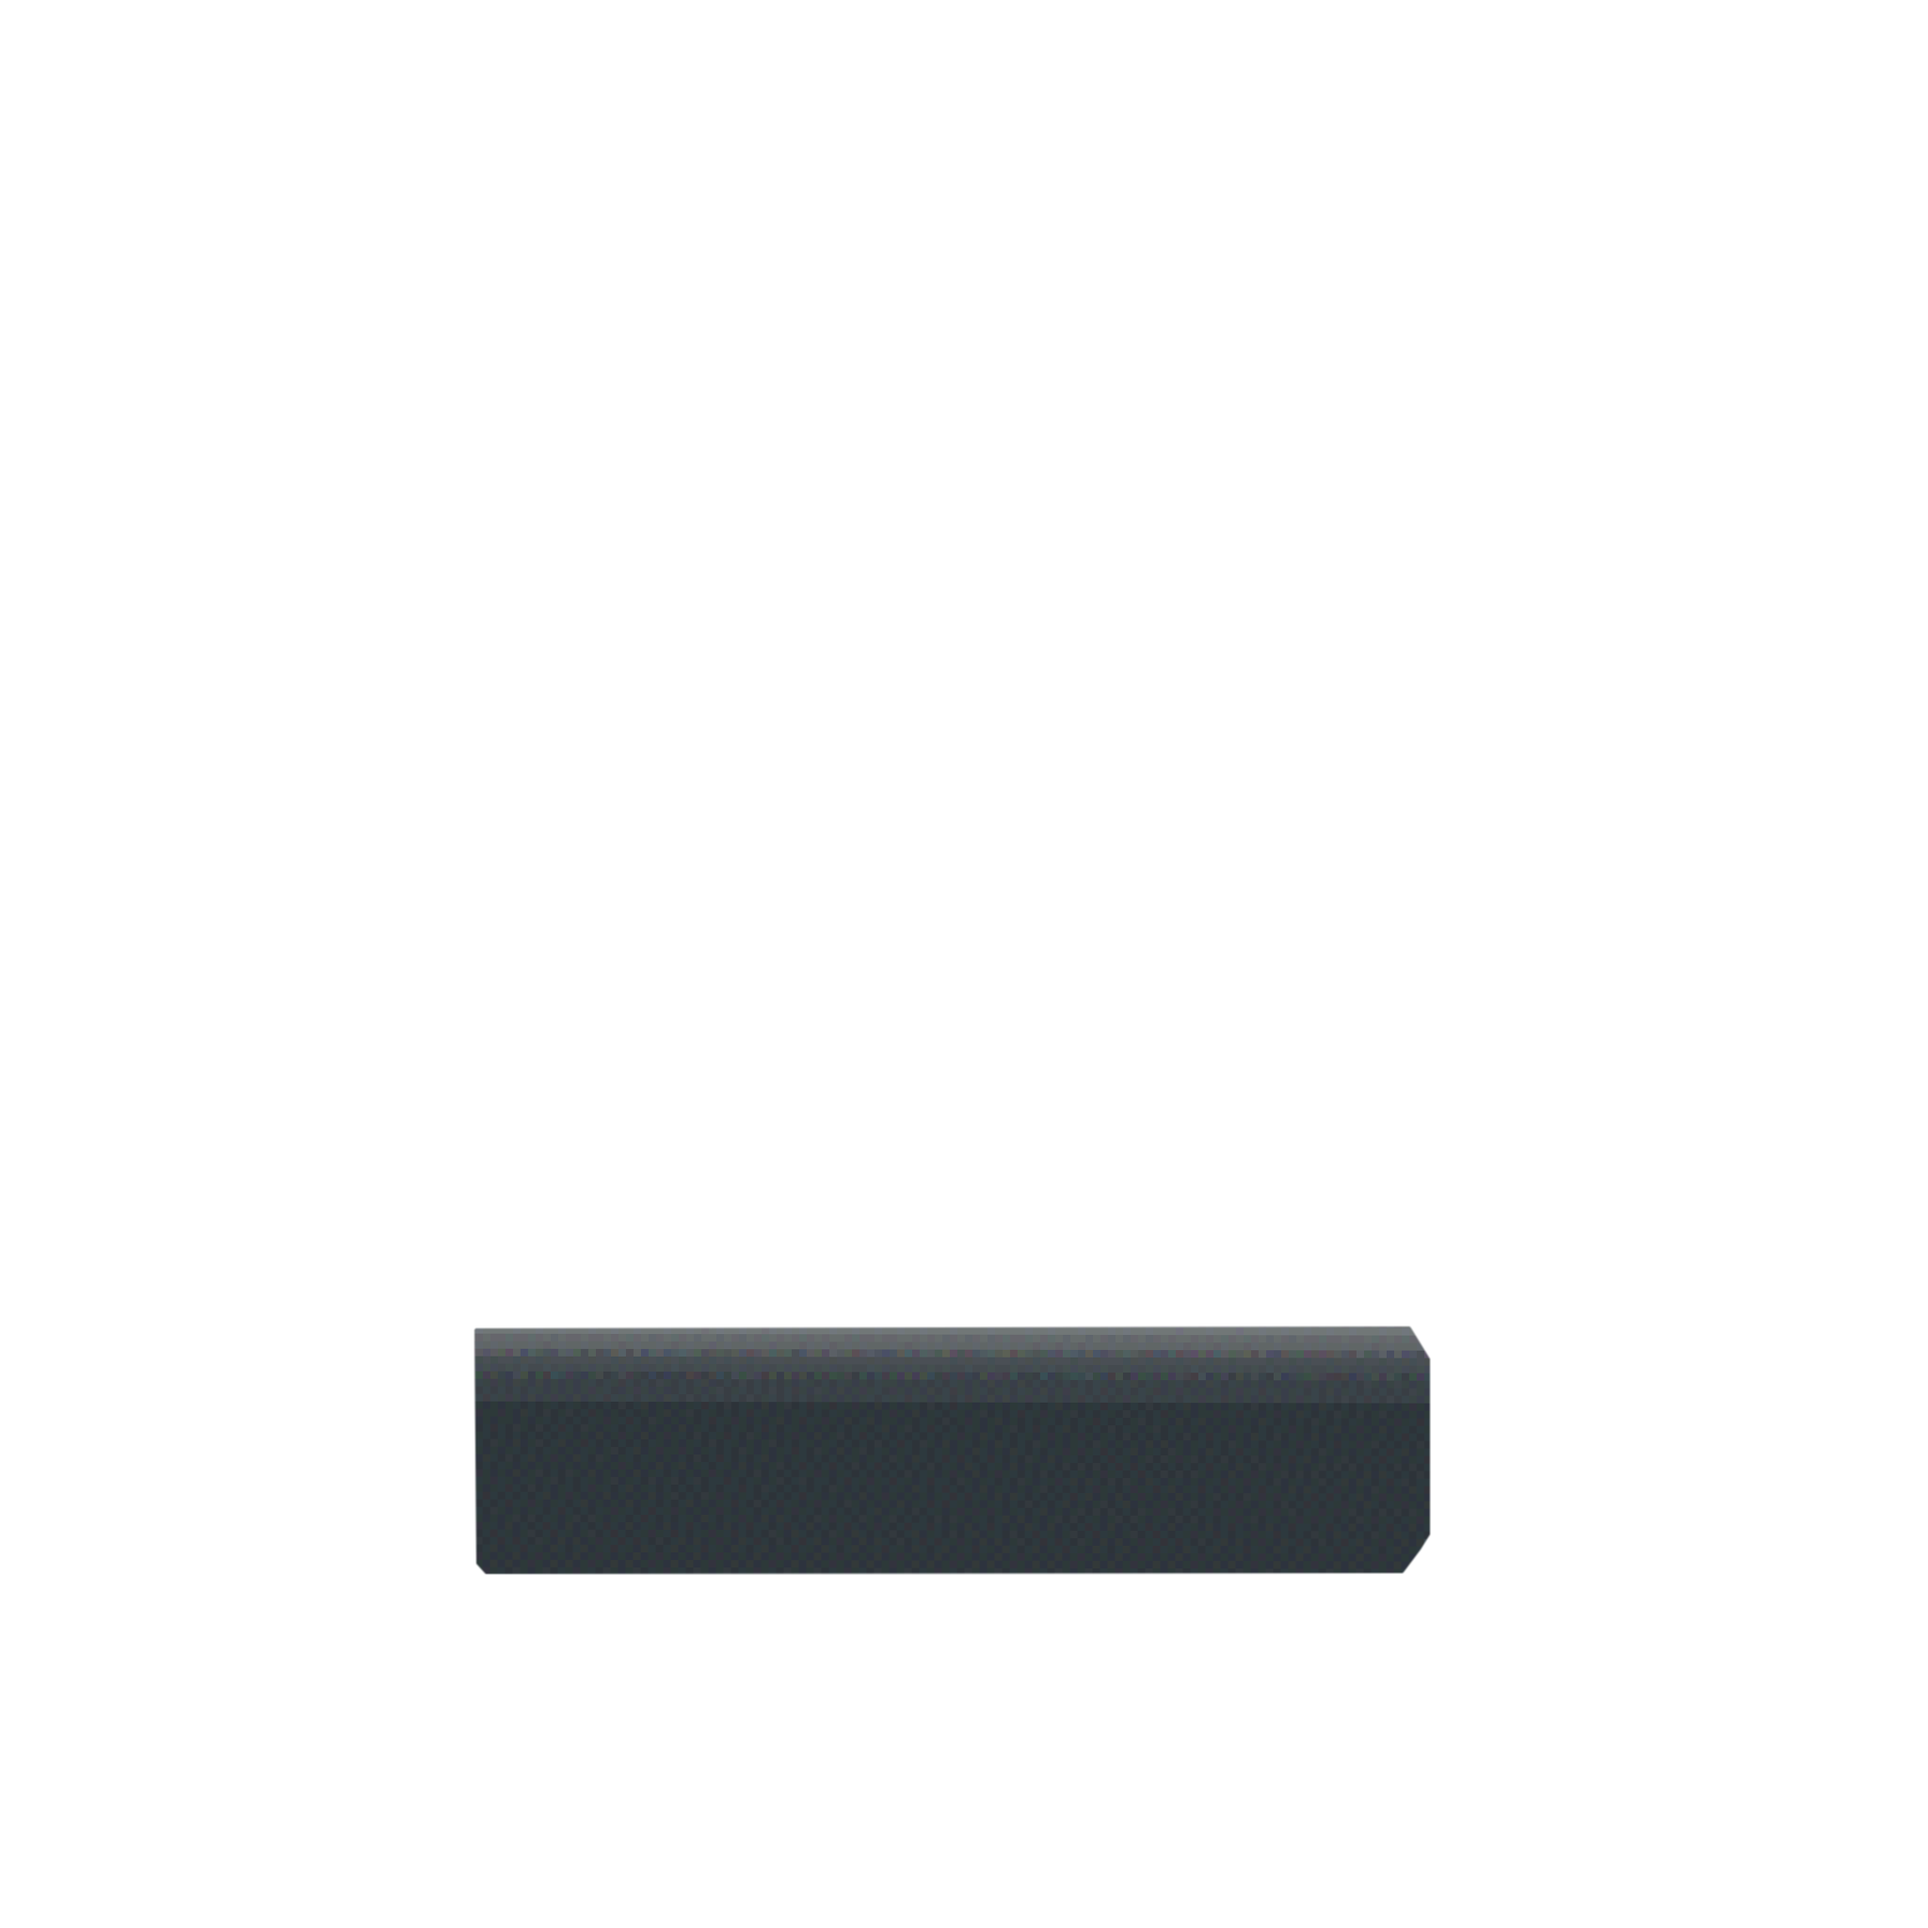
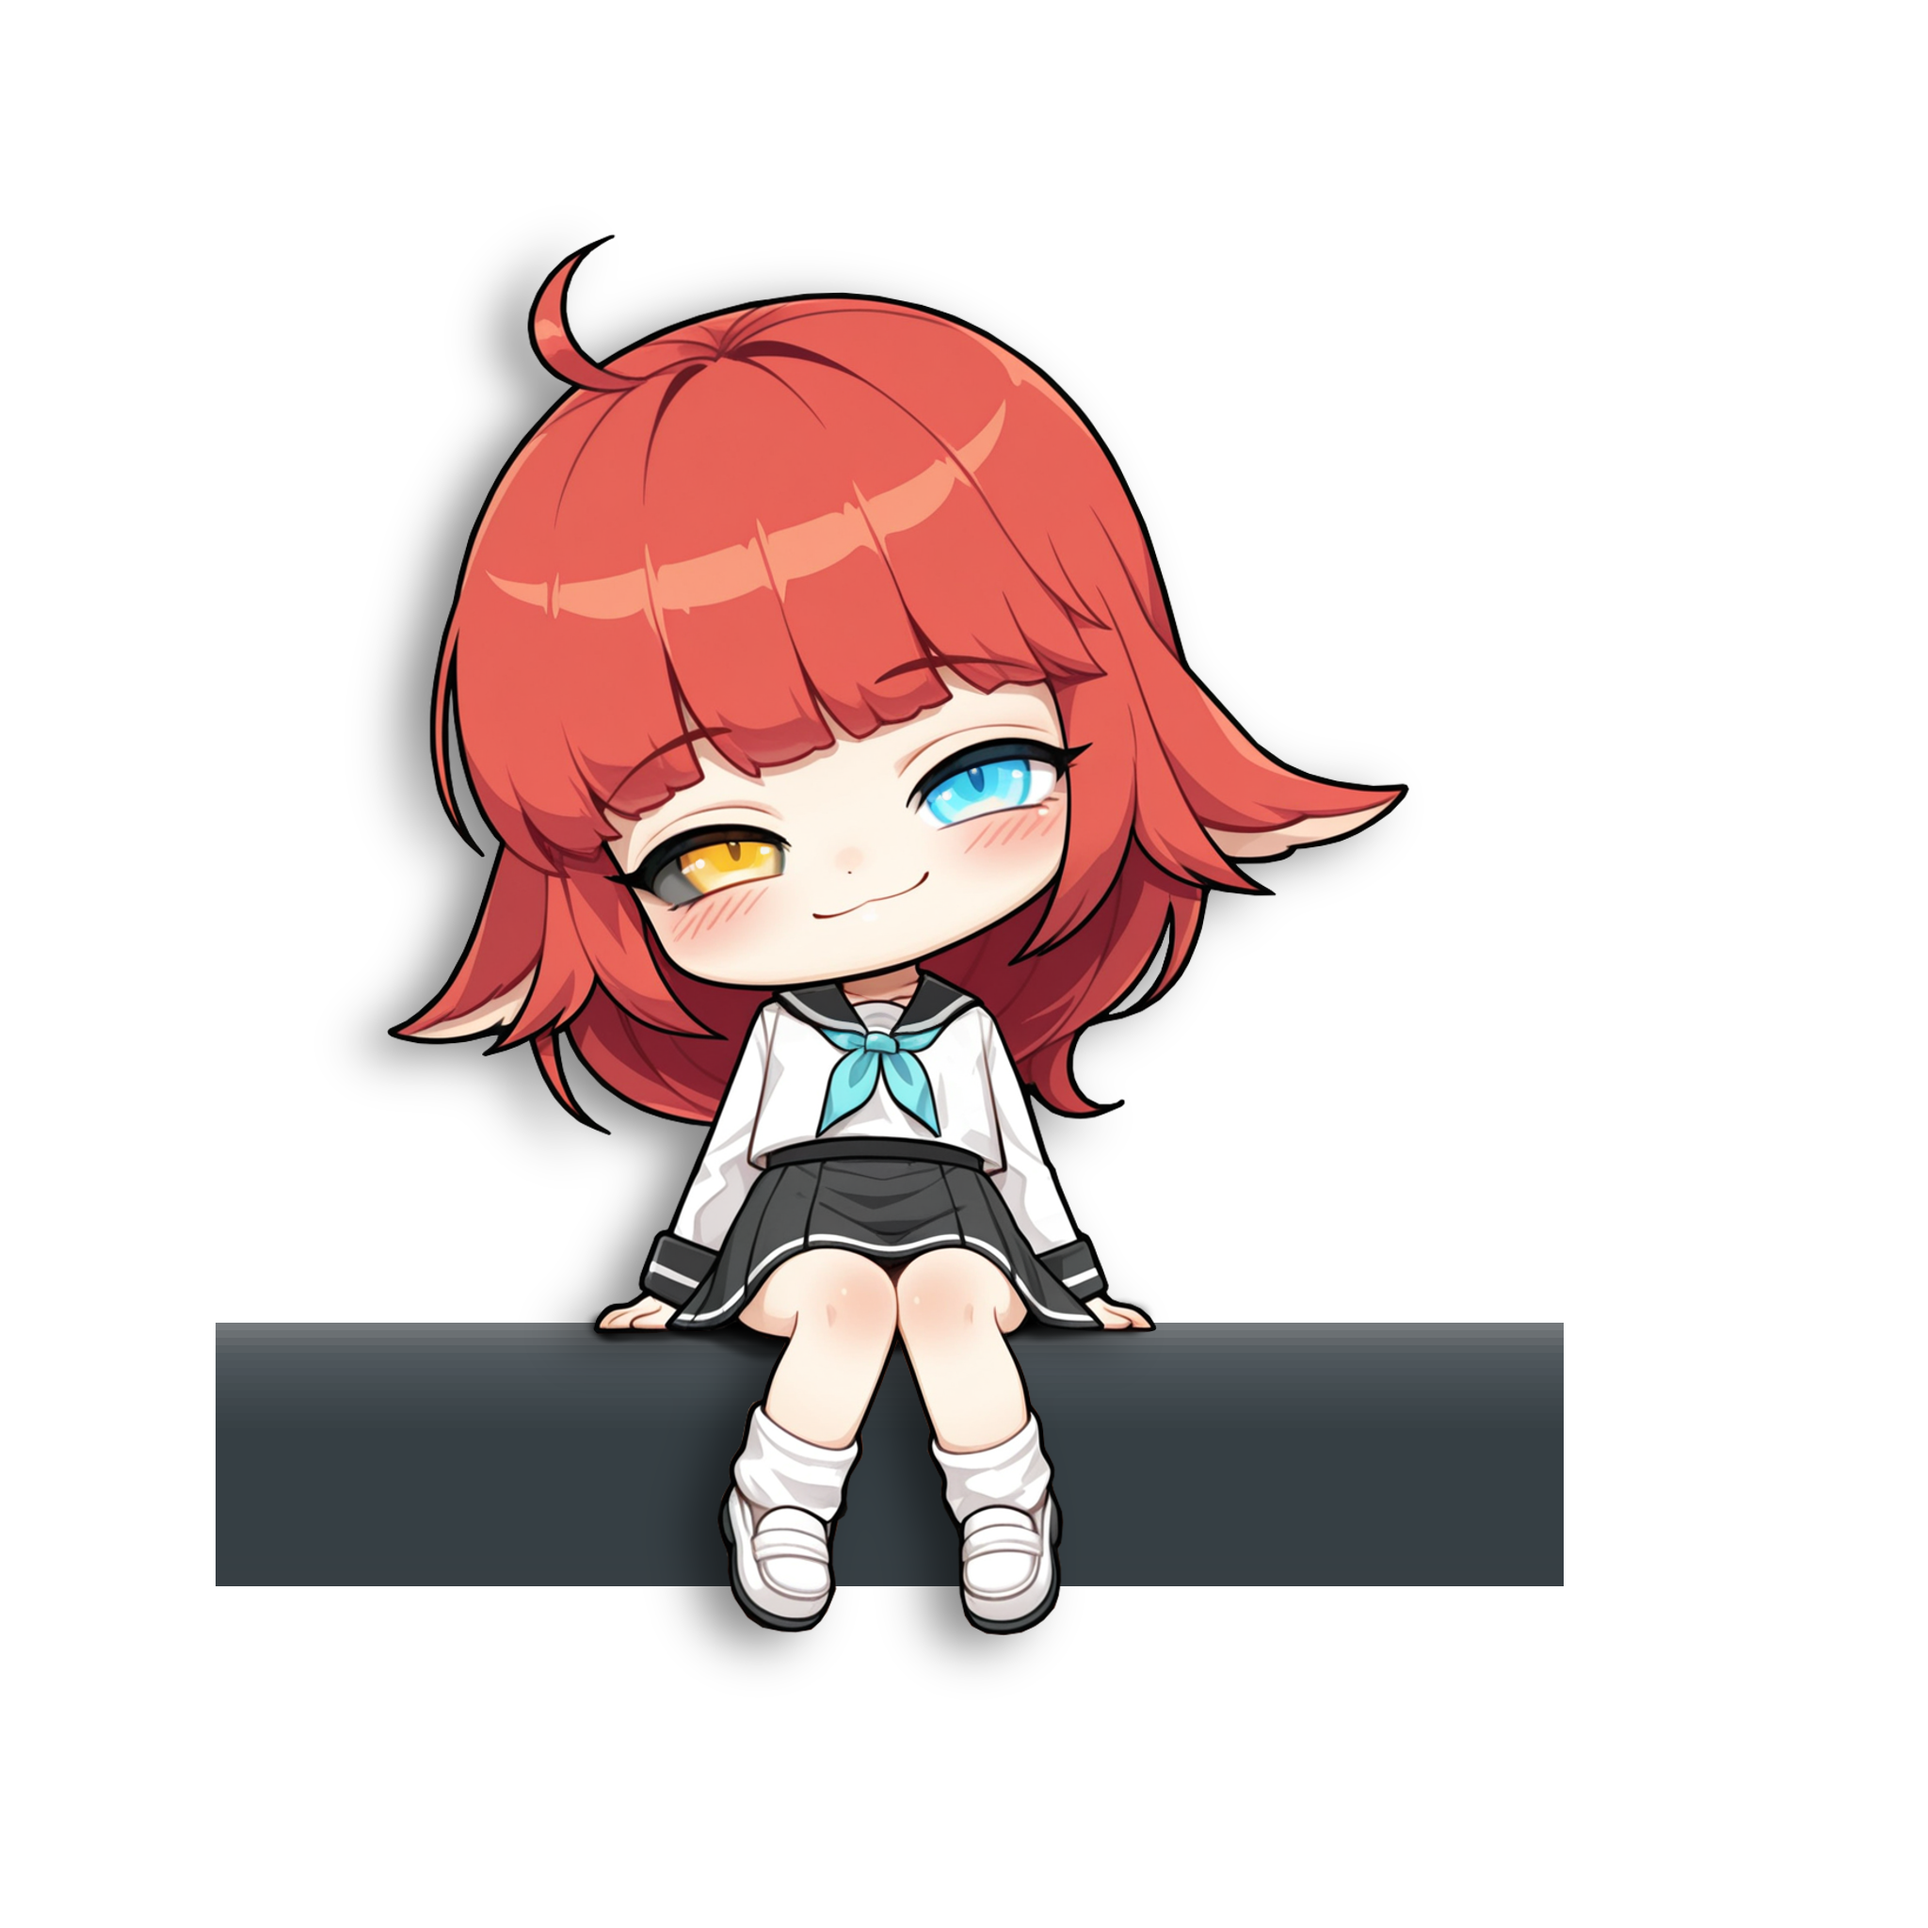
v1.1.1: Support new V001 UI

Changed region(s): [[0.0938, 0.125, 0.8125, 0.875]]

diff --git a/main.py b/main.py
@@ -2,7 +2,6 @@ import configparser
 import os
 import subprocess
 import sys
-import winreg
 
 from helper import get_executable_path, get_window_info, is_topmost_window, get_resource_path, get_exe_path, \
     disable_high_dpi, set_dpi_awareness
@@ -22,7 +21,7 @@ ICON_PATH = get_resource_path('icon.ico')
 IMAGE_PATH = get_executable_path('image.png')
 SETTINGS_PATH = get_executable_path('settings.ini')
 TASK_NAME = "HideMyExpAutoStart"
-ARROW_PATH = get_resource_path('resources/arrow.png')
+ARROW_PATH = get_resource_path('resources/arrow3.png')
 
 
 class Overlay(QWidget):
@@ -30,6 +29,9 @@ class Overlay(QWidget):
         super().__init__()
         self.target_name = target_name
         self.target_hwnd = None
+
+        self.is_fullscreen_borderless = False
+        self.saved_window_info = None
 
         if not os.path.exists(IMAGE_PATH):
             print(f"Error: '{IMAGE_PATH}' not found!")
@@ -51,7 +53,6 @@ class Overlay(QWidget):
         self.calibration_enabled = False
         self.calibration_valid = False
         self.calibration_state_ok = True
-        # self.base_gray = None
         self.base_blue = None
 
         self.current_pixmap = None
@@ -81,10 +82,7 @@ class Overlay(QWidget):
         self.timer.start(1)
 
     def init_ui(self):
-        self.setWindowFlags(
-            Qt.WindowType.FramelessWindowHint |
-            Qt.WindowType.Tool
-        )
+        self.setWindowFlags(Qt.WindowType.FramelessWindowHint | Qt.WindowType.Tool)
         self.setAttribute(Qt.WidgetAttribute.WA_TranslucentBackground)
 
         self.label = QLabel(self)
@@ -110,6 +108,17 @@ class Overlay(QWidget):
         self.lock_action.setFont(font)
         self.lock_action.triggered.connect(self.toggle_lock)
         tray_menu.addAction(self.lock_action)
+
+        # Borderless Fullscreen Action
+        self.fullscreen_action = QAction('全螢幕無邊框', self)
+        self.fullscreen_action.setCheckable(True)
+        self.fullscreen_action.setChecked(False)
+        font_fs = self.fullscreen_action.font()
+        font_fs.setPointSize(12)
+        font_fs.setBold(True)
+        self.fullscreen_action.setFont(font_fs)
+        self.fullscreen_action.triggered.connect(self.toggle_borderless_fullscreen)
+        tray_menu.addAction(self.fullscreen_action)
 
         # Auto Start Action
         self.autostart_action = QAction('開機自啟', self)
@@ -144,6 +153,70 @@ class Overlay(QWidget):
 
         self.tray_icon.setContextMenu(tray_menu)
         self.tray_icon.show()
+
+    def toggle_borderless_fullscreen(self, checked):
+        hwnd, _, _, _, _ = get_window_info(self.target_name)
+        if not hwnd:
+            self.fullscreen_action.setChecked(self.is_fullscreen_borderless)
+            return
+
+        self.is_fullscreen_borderless = checked
+
+        if checked:
+            style = win32gui.GetWindowLong(hwnd, win32con.GWL_STYLE)
+            ex_style = win32gui.GetWindowLong(hwnd, win32con.GWL_EXSTYLE)
+            rect = win32gui.GetWindowRect(hwnd)
+            self.saved_window_info = {
+                'style': style,
+                'ex_style': ex_style,
+                'rect': rect
+            }
+
+            new_style = style & ~win32con.WS_OVERLAPPEDWINDOW & ~win32con.WS_POPUP
+            new_style |= win32con.WS_POPUP
+            win32gui.SetWindowLong(hwnd, win32con.GWL_STYLE, new_style)
+
+            from win32api import MonitorFromWindow, GetMonitorInfo
+            monitor = MonitorFromWindow(hwnd, win32con.MONITOR_DEFAULTTONEAREST)
+            monitor_info = GetMonitorInfo(monitor)
+            monitor_rect = monitor_info['Monitor']
+
+            x, y, w, h = (monitor_rect[0],
+                          monitor_rect[1],
+                          monitor_rect[2] - monitor_rect[0],
+                          monitor_rect[3] - monitor_rect[1])
+
+            win32gui.SetWindowPos(
+                hwnd,
+                win32con.HWND_NOTOPMOST,
+                x, y, w, h,
+                win32con.SWP_FRAMECHANGED | win32con.SWP_SHOWWINDOW
+            )
+        else:
+            if self.saved_window_info:
+                win32gui.SetWindowLong(hwnd, win32con.GWL_STYLE, self.saved_window_info['style'])
+                win32gui.SetWindowLong(hwnd, win32con.GWL_EXSTYLE, self.saved_window_info['ex_style'])
+
+                l, t, r, b = self.saved_window_info['rect']
+                w = r - l
+                h = b - t
+
+                win32gui.SetWindowPos(
+                    hwnd,
+                    win32con.HWND_NOTOPMOST,
+                    l, t, w, h,
+                    win32con.SWP_FRAMECHANGED | win32con.SWP_SHOWWINDOW
+                )
+                self.saved_window_info = None
+            else:
+                style = win32gui.GetWindowLong(hwnd, win32con.GWL_STYLE)
+                win32gui.SetWindowLong(hwnd, win32con.GWL_STYLE, style | win32con.WS_OVERLAPPEDWINDOW)
+                win32gui.SetWindowPos(
+                    hwnd,
+                    win32con.HWND_NOTOPMOST,
+                    100, 100, 800, 600,
+                    win32con.SWP_FRAMECHANGED | win32con.SWP_SHOWWINDOW
+                )
 
     @staticmethod
     def check_autostart():
